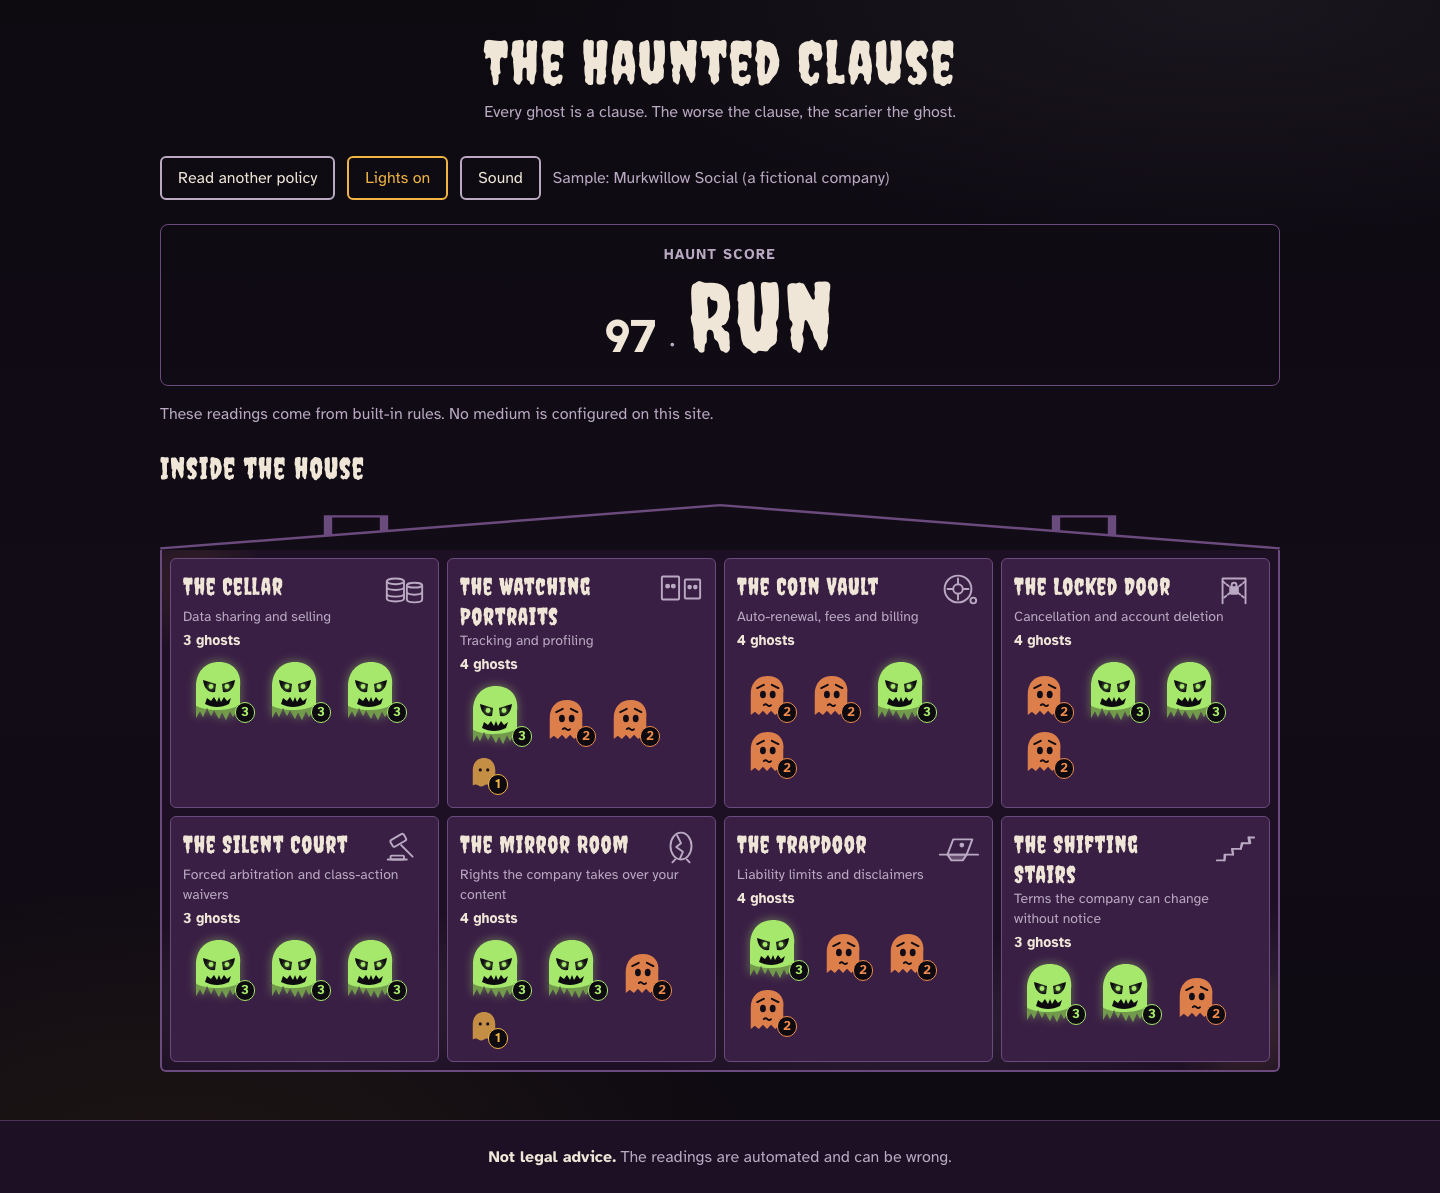
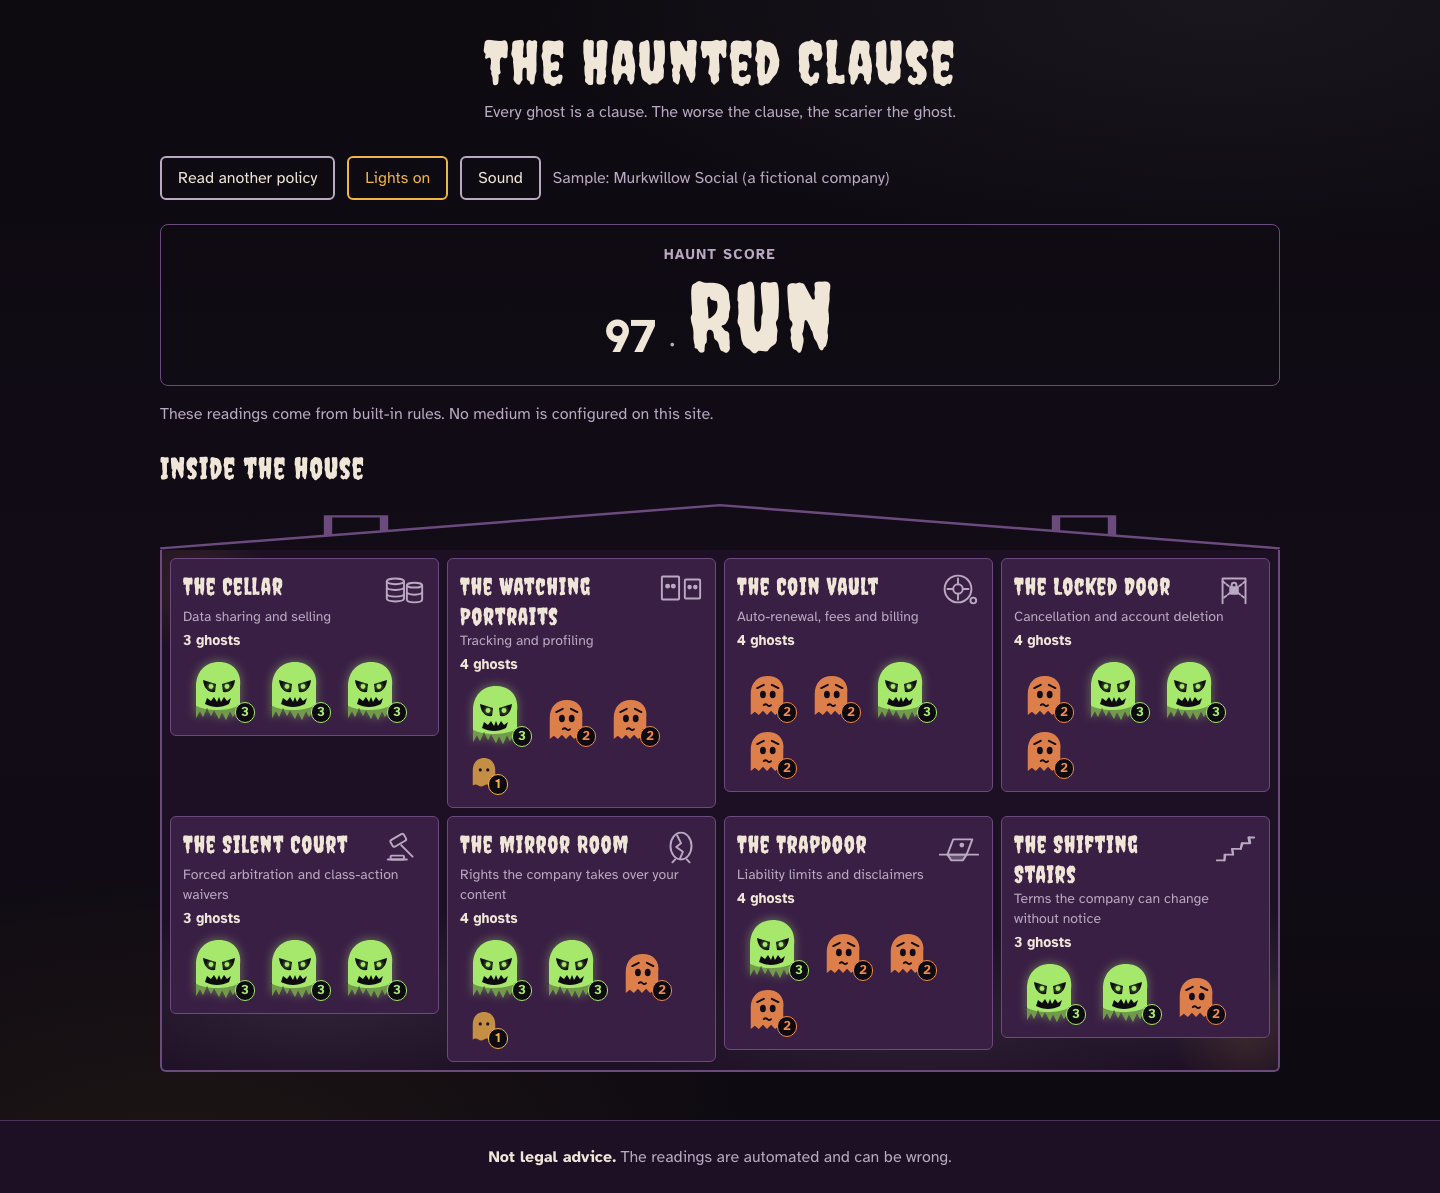
C23: 15 s timeout for the over-the-cap splitter property; screenshots regenerated after C22

diff --git a/src/lib/analyzer/splitter.property.test.ts b/src/lib/analyzer/splitter.property.test.ts
@@ -33,7 +33,9 @@ describe("splitter properties", () => {
     fc.assert(fc.property(anyInput, p6Holds), RUNS);
   });
 
-  it("P6 over the cap: the same holds for inputs longer than 50,000 (R1.12)", () => {
+  // 15 s instead of Vitest's 5 s default (PLAN_DECISIONS.md C23.1): 1,000 inputs over 50,000 characters each
+  // took up to 5.7 s under coverage when other suites ran at the same time. Same runs, same assertions.
+  it("P6 over the cap: the same holds for inputs longer than 50,000 (R1.12)", { timeout: 15_000 }, () => {
     fc.assert(fc.property(overCapString, p6Holds), RUNS);
   });
 

diff --git a/BUILD_LOG.md b/BUILD_LOG.md
@@ -1126,3 +1126,8 @@ No real company name or policy text is recorded here; they stay in the git-ignor
 - **Samples:** no analyzer file changed, and no sample room has more than four findings, so the scores stay 14, 59 and 97 and no sample room shows the button.
 - **After:** `/tmp/hc-crowded/after-1440.png`, `after-360.png`, `after-expanded-1440.png` and `after-expanded-360.png`. Collapsed, the crowded room is 410 px at 1440 px and its row-mates 176 px; at 360 px, 509 px and 218 px. Expanded to all 40: 754 px and 1,181 px. No horizontal scroll at either width.
 - The committed review screenshots in `docs/screenshots/` were taken before this change; rooms in the sample houses are now as tall as their own content, so those images no longer match exactly. They were not regenerated.
+
+### Closing changes (PLAN_DECISIONS.md C23)
+- **Timeout:** "P6 over the cap" now passes `{ timeout: 15_000 }` to `it`, with a comment citing C23.1. `git diff` shows only that line and the comment; `RUNS` (`numRuns: 1000`) and `p6Holds` are unchanged. On its own it passed in 988 ms. Full `npm run test:coverage`: 74 files, 883 passed, lines 96.97%.
+- **Screenshots:** `CI=1 npm run screenshots` (3 passed, fresh no-key build) rewrote the 13 images; 8 changed (the five house views at 1440 px, the three sample houses at 360 px, the detail panel at 1440 px and the motion-on image), and the input, Lights on and detail-at-360 images came out identical. Checked by eye: `house-average-1440.png` shows each room only as tall as its content.
+- The builder's work is finished here unless the user reports a problem.

diff --git a/PLAN_DECISIONS.md b/PLAN_DECISIONS.md
@@ -375,3 +375,7 @@ Written from generic example sentences only; no real policy text is in the repos
 2. A room with more than 12 findings draws its 12 most severe (ties to the earlier finding, shown in input order) and a "+N more" button that expands the room in place and becomes "Show fewer". The room's accessible name and visible count still count every finding. Lights on mode lists every finding.
 3. The button is the last stop in the room's roving set (arrows, Home, End), Enter and Space toggle it, focus stays on it, and Tab still leaves the room.
 4. New criteria: haunted-house-ui R4.7, R4.8 and R9.8, with R4.4 noting the cap (239 criteria). Task: haunted-house-ui 32.3. E2E: `e2e/crowded.spec.ts` with a made-up 40-ghost text. The sample scores are unchanged, because no sample room has more than four findings.
+## C23. Closing changes (approved by the user after C22, 17 November 2026)
+1. **One test timeout:** "P6 over the cap" in `src/lib/analyzer/splitter.property.test.ts` gets a 15-second timeout instead of Vitest's 5-second default. It had timed out twice (5,371 ms and 5,686 ms) when coverage ran alongside lint and the E2E suite; on its own it takes about 1 s, or about 4.4 s under coverage. `numRuns` stays 1,000 and every assertion is unchanged: this changes how long it may take, not what it checks. No other test's timeout changes.
+2. **Screenshots:** `npm run screenshots` is re-run so `docs/screenshots/` matches the current app after C22 (rooms aligned to the top of their row).
+After this, the builder's work is finished unless the user reports a problem.
